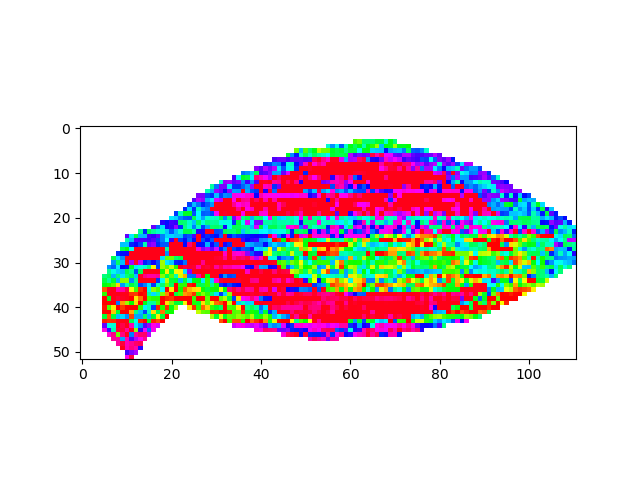
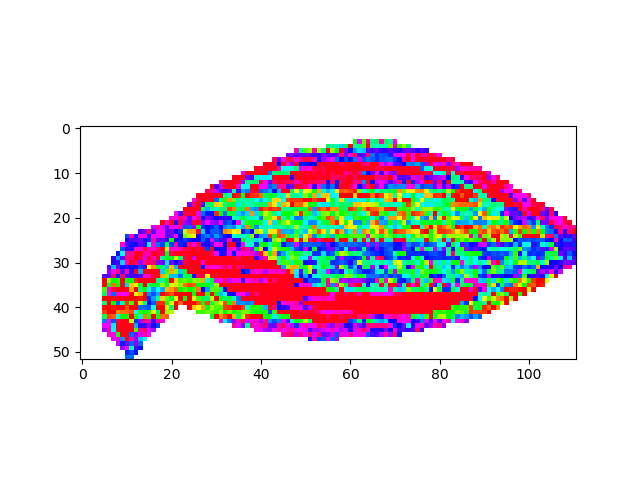
normalize r on all prototyps in colorwheel

Changed region(s): [[0.1562, 0.2812, 0.9062, 0.75]]

diff --git a/pyscript/clustering.py b/pyscript/clustering.py
@@ -291,6 +291,14 @@ def transform(centers):
 
 def applyTransformation(centers, embedding, labels):
     new_centers, new_centers_diff = transform(centers)
+    maxValue = float('-inf')
+    minValue = float('inf')
+    for i in range(len(embedding)):
+        if maxValue <= abs(embedding[i][1]):
+            maxValue = abs(embedding[i][1])
+        if minValue >= abs(embedding[i][1]):
+            minValue = abs(embedding[i][1])
+
     allPixels = []
     for l in set(labels):
         for i in range(len(embedding)):
@@ -298,7 +306,8 @@ def applyTransformation(centers, embedding, labels):
                 diff = new_centers_diff[l]
                 current = embedding[i]
                 t = current[0] + diff[0]
-                r = current[1] + diff[1]
+                #r = current[1] + diff[1]
+                r =  normalize(0.5, 6, minValue, maxValue, abs(embedding[i][1]))
                 allPixels.append([t,r])
     allPixels = np.array(allPixels)
     return new_centers, new_centers_diff, allPixels
